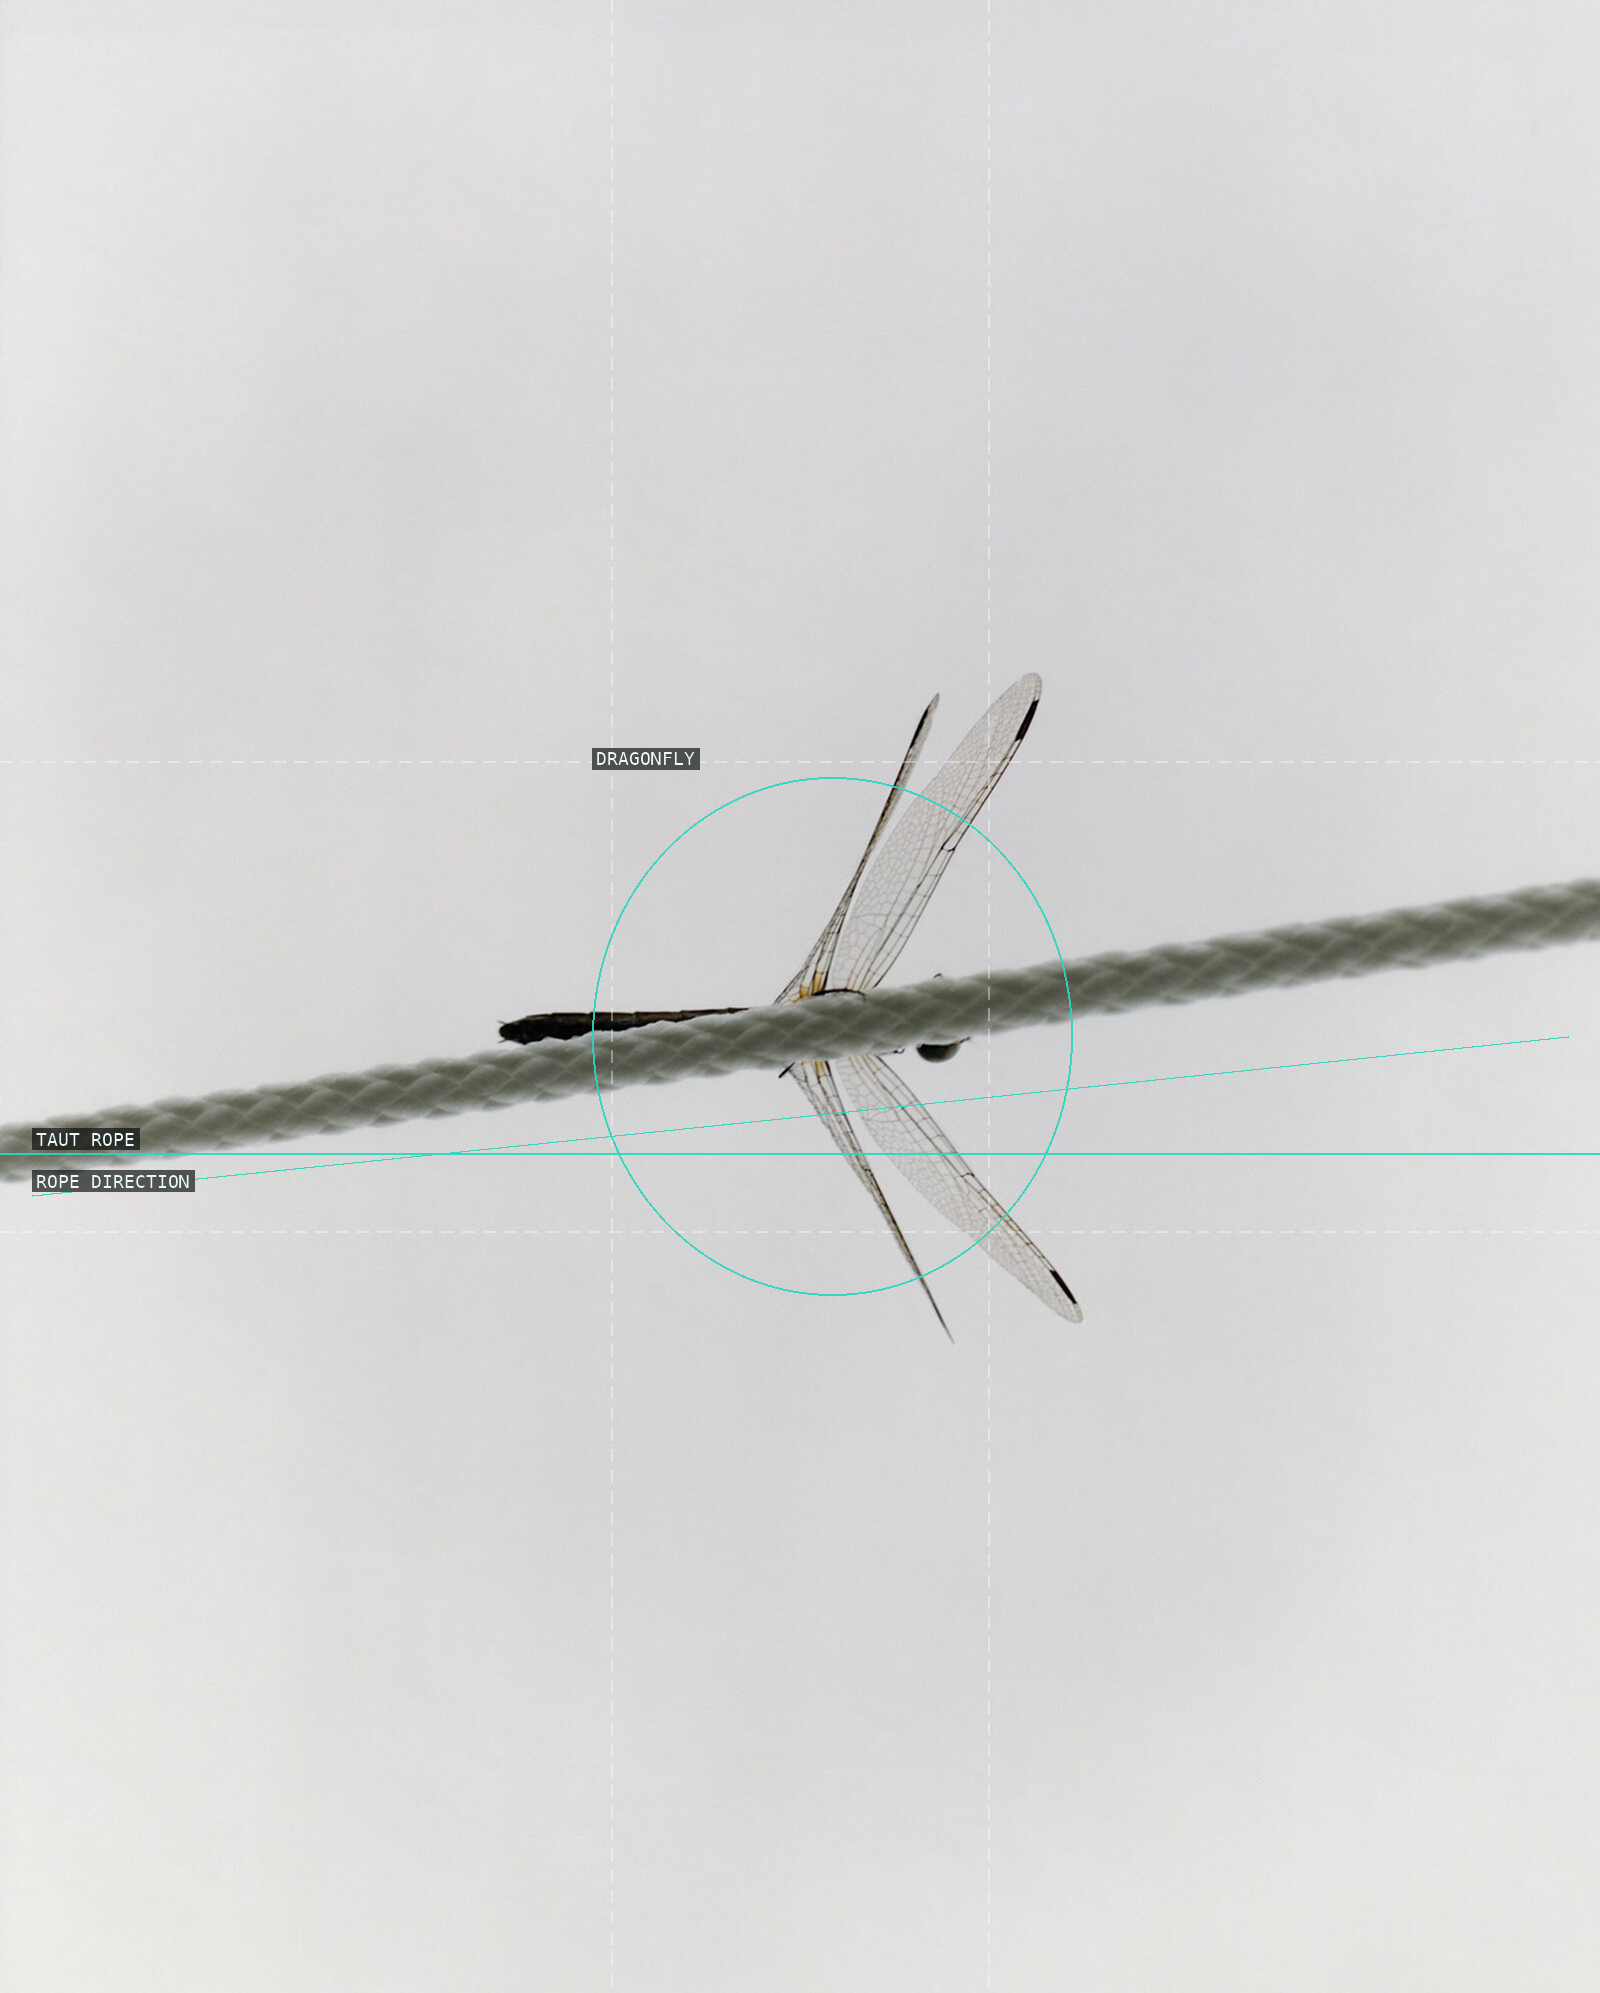
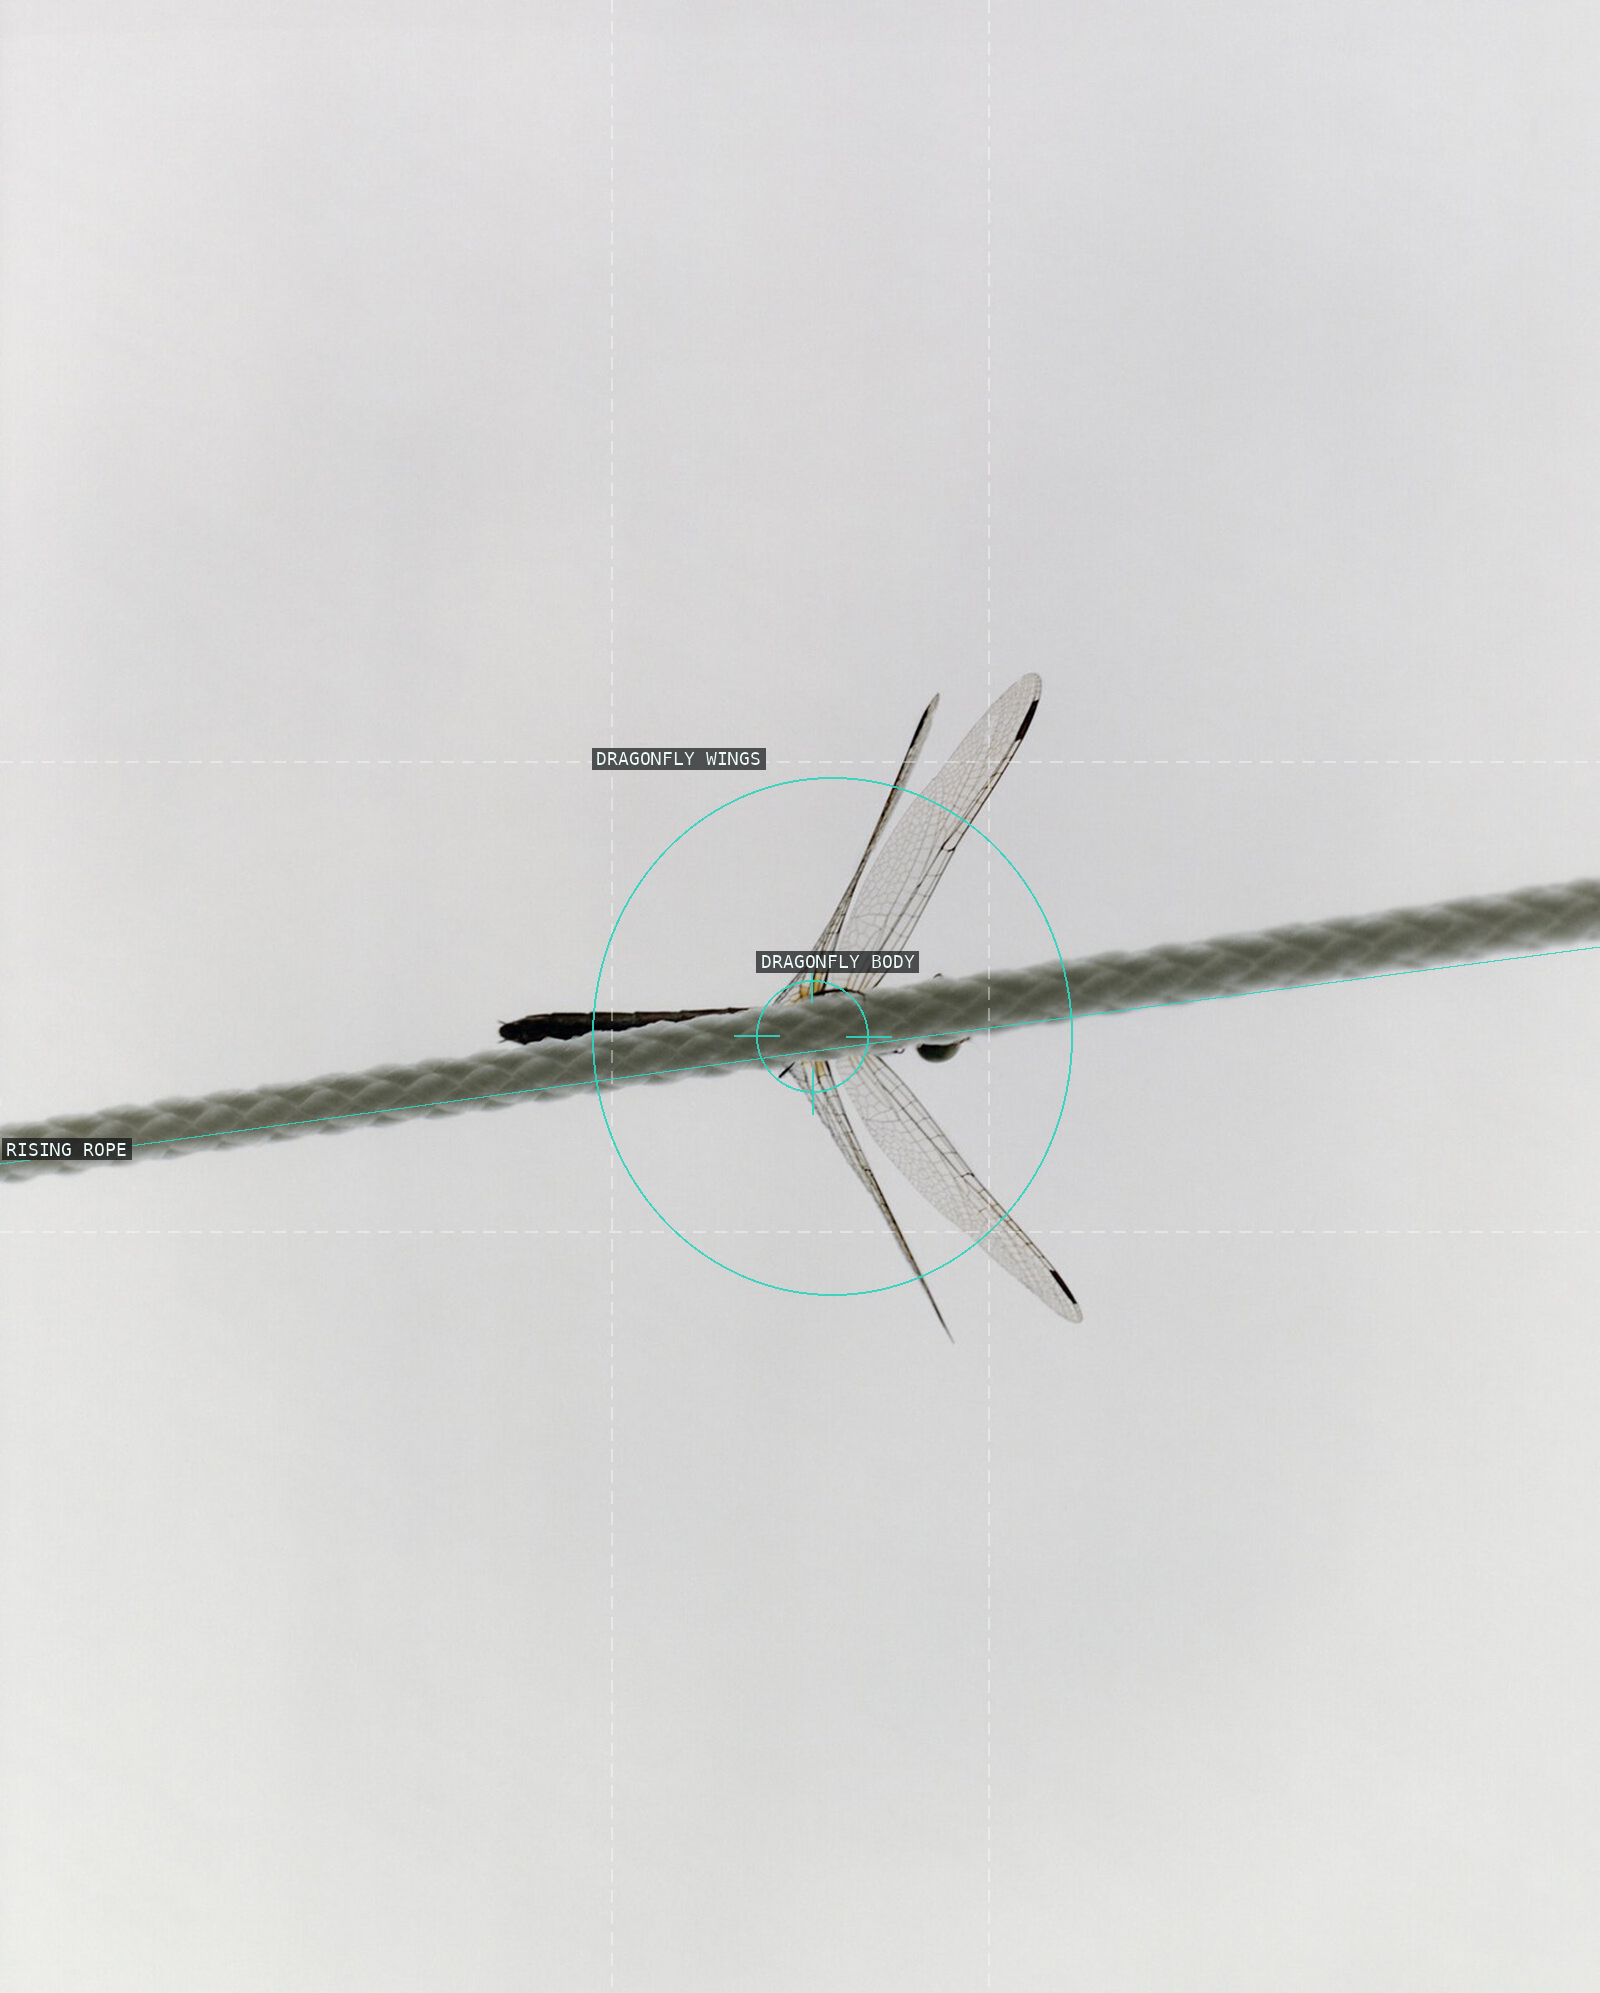
resolve critique: tyler-mitchell

Changed region(s): [[0.0, 0.56, 0.125, 0.6222], [0.4688, 0.4666, 0.5938, 0.4977], [0.4375, 0.3733, 0.5, 0.4044]]

diff --git a/content/tyler-mitchell/sources.md b/content/tyler-mitchell/sources.md
@@ -7,9 +7,9 @@ This chapter uses twelve named works from Jack Shainman Gallery’s public exhib
 ## Shortlist
 
 ### 01 — *Untitled (Stilts II)* (2019)
-- **Why it matters:** A figure’s upturned body and red cloth set a lively diagonal against a wide band of blue sky and low outdoor horizon.
+- **Why it matters:** Four upright figures on stilts make a low field edge into a measured rhythm beneath a wide band of blue sky.
 - **Source:** https://jackshainman.com/exhibitions/tyler_mitchell (Jack Shainman Gallery; public display: https://jackshainman.com/uploads/11100111/1631289449751/TYM19.027_Untitled_Stilts_II_HR_copy-1600-xxx_q85.jpg)
-- **Use basis: fair-use.** **Factor 1:** transformative teaching studies the inverted figure and sky/ground division. **Factor 2:** creative contemporary photograph. **Factor 3:** the complete frame is required to measure the body against the sky and horizon. **Factor 4:** this credited 1600 × 1292px display copy links to the gallery and cannot replace the 2019 wall work or a licensed file.
+- **Use basis: fair-use.** **Factor 1:** transformative teaching studies the four elevated figures and sky/ground division. **Factor 2:** creative contemporary photograph. **Factor 3:** the complete frame is required to measure the figures against the sky and horizon. **Factor 4:** this credited 1600 × 1292px display copy links to the gallery and cannot replace the 2019 wall work or a licensed file.
 - **File:** `raw/tyler-mitchell/01-untitled-stilts-ii.jpg` (1600 × 1292px)
 
 ### 02 — *Untitled (Blue Boy)* (2021)
@@ -31,9 +31,9 @@ This chapter uses twelve named works from Jack Shainman Gallery’s public exhib
 - **File:** `raw/tyler-mitchell/04-vastness.jpg` (1600 × 403px)
 
 ### 05 — *Tangled* (2021)
-- **Why it matters:** Interlaced bodies and vegetation make touch, overlap, and near/far depth the picture’s structure.
+- **Why it matters:** Two separated children, a red balloon, and its strings make a visible connection across a domestic yard.
 - **Source:** https://jackshainman.com/exhibitions/tyler_mitchell (public display: https://jackshainman.com/uploads/11100111/1631289071245/TYM21.014_Tangled_HR_copy-1600-xxx_q85.jpg)
-- **Use basis: fair-use.** **Factor 1:** transformative teaching studies bodily overlap and layered outdoor texture. **Factor 2:** creative contemporary photograph. **Factor 3:** the complete frame is needed to read the figures’ placement in the surrounding vegetation. **Factor 4:** the credited 1600 × 1290px display copy is a non-substitutive gallery reference.
+- **Use basis: fair-use.** **Factor 1:** transformative teaching studies the balloon, its strings, and the interval between the two children. **Factor 2:** creative contemporary photograph. **Factor 3:** the complete frame is needed to read the children’s placement and the strings’ path across the yard. **Factor 4:** the credited 1600 × 1290px display copy is a non-substitutive gallery reference.
 - **File:** `raw/tyler-mitchell/05-tangled.jpg` (1600 × 1290px)
 
 ### 06 — *Wings* (2021)
@@ -49,13 +49,13 @@ This chapter uses twelve named works from Jack Shainman Gallery’s public exhib
 - **File:** `raw/tyler-mitchell/07-group-hang.jpg` (1600 × 1270px)
 
 ### 08 — *Dragonfly* (2021)
-- **Why it matters:** A tall portrait composition lets a figure and its surrounding field read as a poised, separate silhouette.
+- **Why it matters:** A dragonfly perched on a rising rope turns a nearly blank field into a precise study of balance and tension.
 - **Source:** https://jackshainman.com/exhibitions/tyler_mitchell (public display: https://jackshainman.com/uploads/11100111/1631288645679/TYM21.015_Dragonfly_HR_copy-1600-xxx_q85.jpg)
-- **Use basis: fair-use.** **Factor 1:** transformative teaching examines portrait containment, scale, and vertical negative space. **Factor 2:** creative contemporary photograph. **Factor 3:** the full frame is required to preserve the figure/field balance. **Factor 4:** the credited 1600 × 1993px display copy links to the gallery and does not replace a print or licensed file.
+- **Use basis: fair-use.** **Factor 1:** transformative teaching examines the dragonfly’s scale, the rising rope, and the surrounding open field. **Factor 2:** creative contemporary photograph. **Factor 3:** the full frame is required to preserve the insect/rope relationship and extensive negative space. **Factor 4:** the credited 1600 × 1993px display copy links to the gallery and does not replace a print or licensed file.
 - **File:** `raw/tyler-mitchell/08-dragonfly.jpg` (1600 × 1993px)
 
 ### 09 — *Time for a New Sky* (2020)
-- **Why it matters:** A spacious landscape gives sky and distance as much compositional agency as the figures below.
+- **Why it matters:** A spacious landscape gives sky and distance as much compositional agency as the single figure holding cloth above the roofline.
 - **Source:** https://jackshainman.com/exhibitions/tyler_mitchell (public display: https://jackshainman.com/uploads/11100111/1631288494903/TYM20.003_Time_New_Sky_HR_copy-1600-xxx_q85.jpg)
 - **Use basis: fair-use.** **Factor 1:** transformative teaching studies horizon, atmospheric space, and figure-to-landscape scale. **Factor 2:** creative contemporary photograph. **Factor 3:** the complete frame is essential to the title-bearing sky/earth relation. **Factor 4:** this credited 1600 × 1285px gallery rendition is web-sized and non-substitutive.
 - **File:** `raw/tyler-mitchell/09-time-for-a-new-sky.jpg` (1600 × 1285px)
@@ -73,9 +73,9 @@ This chapter uses twelve named works from Jack Shainman Gallery’s public exhib
 - **File:** `raw/tyler-mitchell/11-tag-youre-it.jpg` (1600 × 1304px)
 
 ### 12 — *The Fish* (2021)
-- **Why it matters:** The tall composition concentrates a figure and an animal motif into a deliberately intimate vertical encounter.
+- **Why it matters:** The tall composition concentrates a foreshortened human body in red shorts into a deliberately intimate vertical encounter.
 - **Source:** https://jackshainman.com/exhibitions/tyler_mitchell (public display: https://jackshainman.com/uploads/11100111/1631288078375/TYM21.018_Fish_HR_copy-1600-xxx_q85.jpg)
-- **Use basis: fair-use.** **Factor 1:** transformative teaching examines vertical staging, gesture, and an animal/figure relationship. **Factor 2:** creative contemporary photograph. **Factor 3:** the complete tall frame is needed to retain the work’s scale and encounter. **Factor 4:** the credited 1600 × 1987px public display rendition cannot replace the archival pigment print or a licensed reproduction.
+- **Use basis: fair-use.** **Factor 1:** transformative teaching examines vertical staging, gesture, and the body’s foreshortened relation to the surrounding field. **Factor 2:** creative contemporary photograph. **Factor 3:** the complete tall frame is needed to retain the work’s scale and encounter. **Factor 4:** the credited 1600 × 1987px public display rendition cannot replace the archival pigment print or a licensed reproduction.
 - **File:** `raw/tyler-mitchell/12-the-fish.jpg` (1600 × 1987px)
 
 ## Research context

diff --git a/content/tyler-mitchell/critique.md b/content/tyler-mitchell/critique.md
@@ -1,4 +1,4 @@
-verdict: revise
+verdict: resolved
 
 ## Critique round — 2026-07-26
 
@@ -19,3 +19,15 @@ verdict: revise
 - All twelve current proof PNGs were visually checked against their overlay JSON and analysis records. The remaining overlay labels materially trace the visible structures, and every scored overlay currently reports 100/100 against its stored analysis.
 - The chapter’s reported luminance, edge-density, palette, and percentile values match the analysis JSON within the specified tolerance. It makes no unsupported camera-setting or production-process claims.
 - Each display URL in `sources.md` returned a public `200 image/jpeg` response, and every item includes an individual four-factor fair-use rationale. The blocking issues above are false per-image descriptive claims, not an objection to the documented fair-use basis.
+
+## Resolution — 2026-07-26
+
+Resolved every required item from critique round `b2d2493`:
+
+1. Corrected the *Untitled (Stilts II)* shortlist and fair-use description to four upright stilt figures under a broad sky.
+2. Corrected the *Tangled* shortlist and fair-use description to the two children, red balloon, and connecting strings.
+3. Replaced *Dragonfly*’s false horizontal `taut rope` with a single rising-rope polyline, retained the dragonfly’s body and wings as distinct annotations, rebuilt the proof, and corrected its source description and rationale.
+4. Corrected *Time for a New Sky* to a single figure holding cloth; also removed the nonliteral `cloth convergence` marker and rebuilt the proof.
+5. Corrected *The Fish* to the foreshortened human body in red shorts and removed the nonexistent animal claim from its source description and rationale.
+
+Re-verified the complete critique history (one prior round, `b2d2493`) against the current overlays, proofs, chapter, and sources. The current chapter was already accurate for every required item and remains byte-identical to `src/chapters/tyler-mitchell.mdx`.
